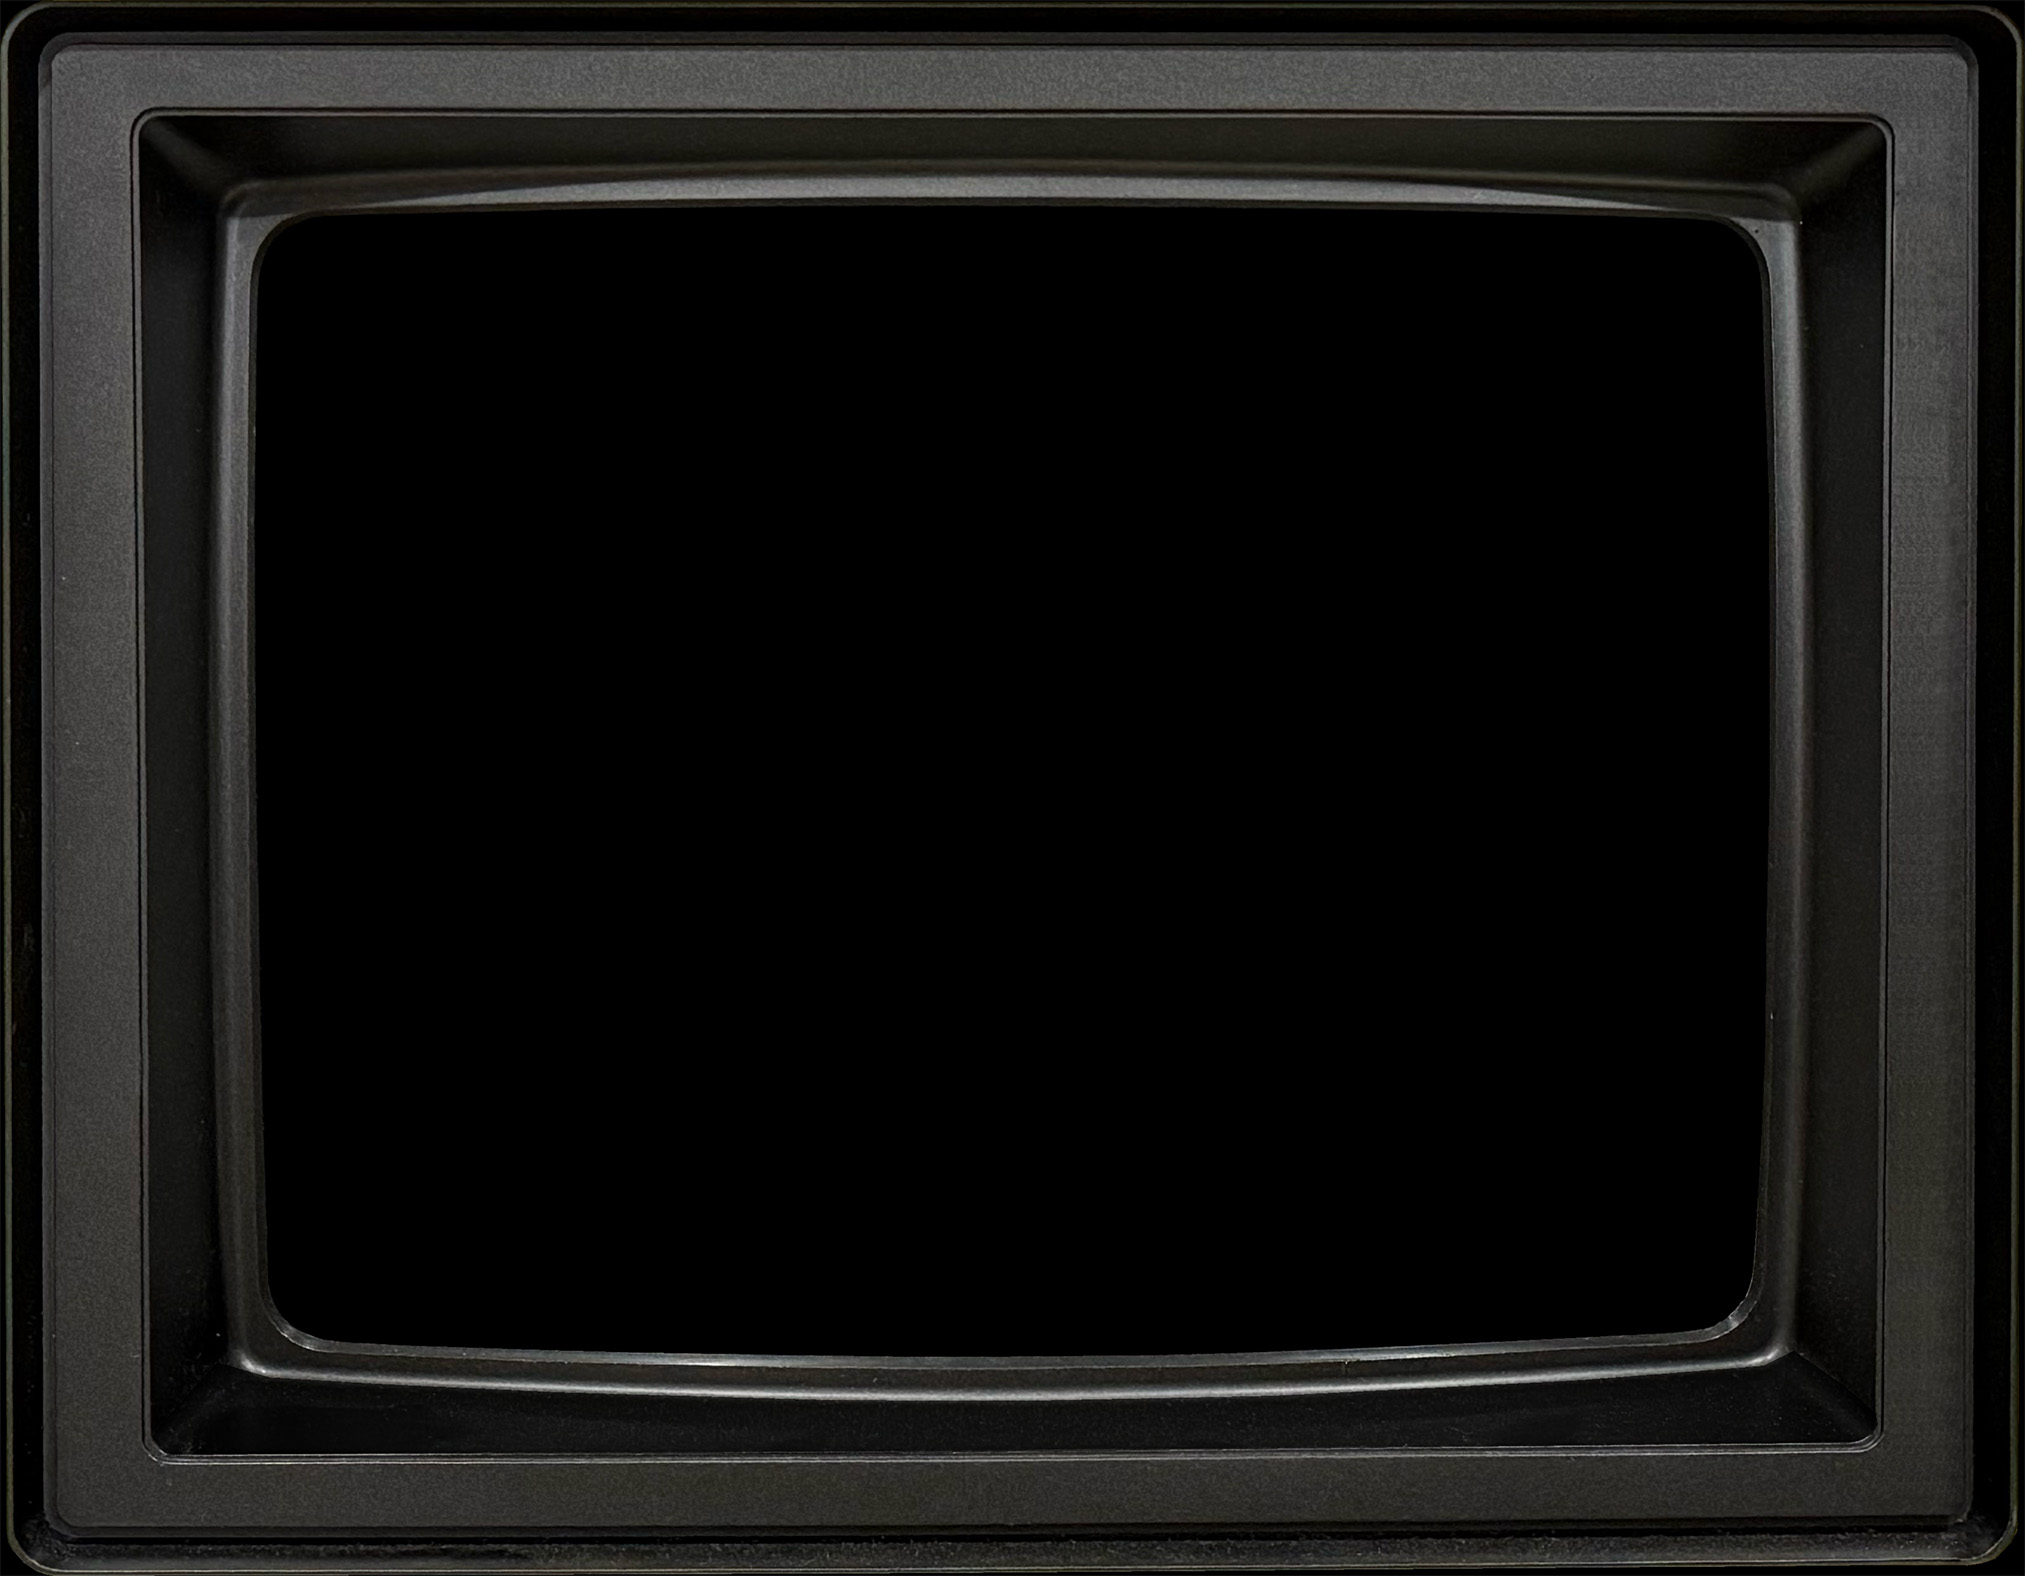
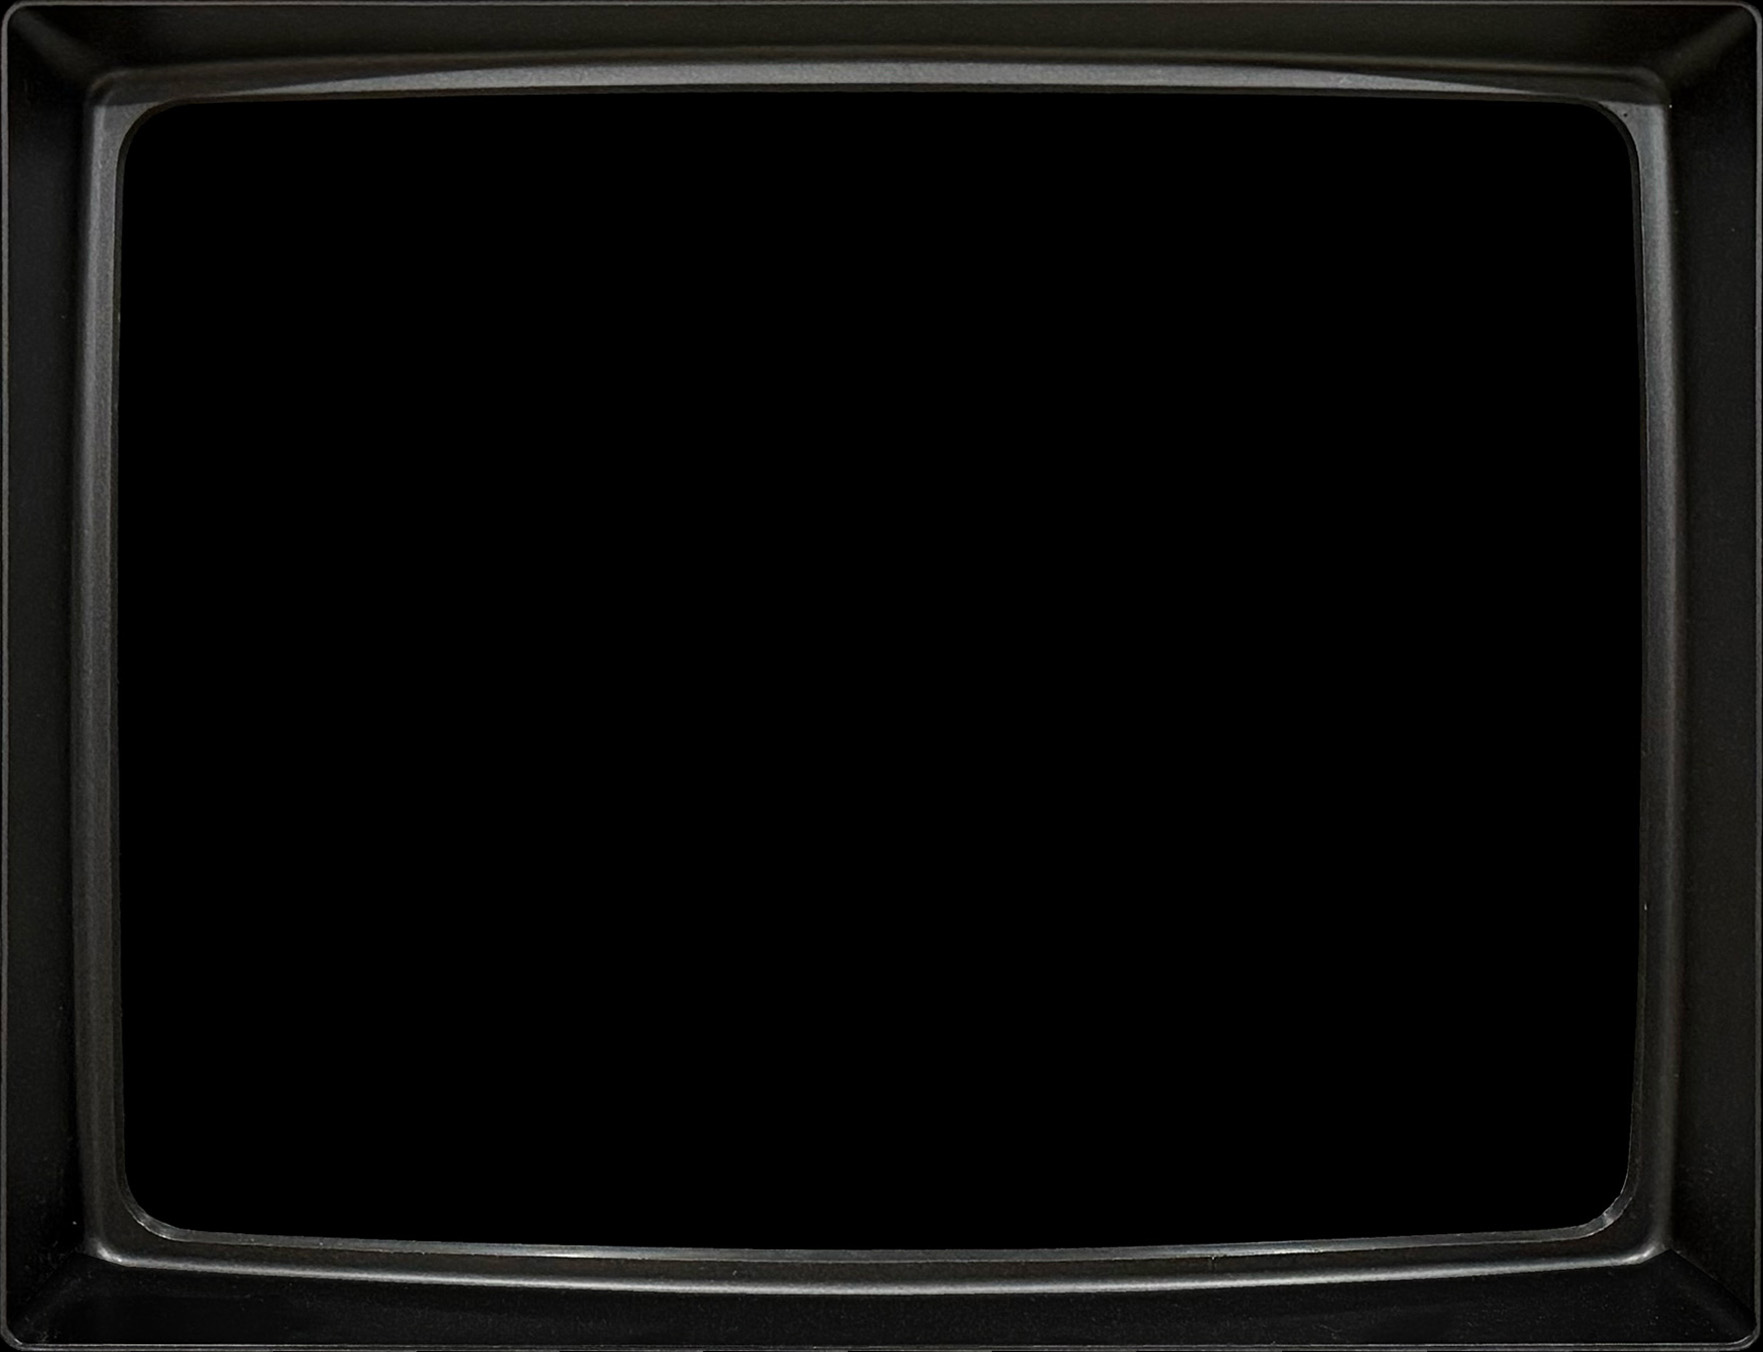
Shrink the size of the Apple II+ monitor bezel

Changed region(s): [[0.0, 0.0, 1.0, 1.0]]

diff --git a/src/ui/canvas.tsx b/src/ui/canvas.tsx
@@ -658,7 +658,7 @@ const Apple2Canvas = (props: DisplayProps) => {
         style={{
           cursor: cursor,
           borderColor: (machine === "APPLE2P" || getTheme() === UI_THEME.DARK) ? "black" : "#583927",
-          borderRadius: noBackgroundImage ? "0" : "20px",
+          borderRadius: noBackgroundImage ? "0" : "18px",
           borderWidth: (noBackgroundImage || machine === "APPLE2P") ? "0" : "2px",
           backgroundImage: `${backgroundImage}`,
           marginLeft: handleCanvasResize(myCanvas.current as HTMLCanvasElement)

diff --git a/src/ui/graphics.ts b/src/ui/graphics.ts
@@ -585,7 +585,7 @@ export const getCanvasSize = () => {
   const isTouchDevice = "ontouchstart" in document.documentElement
   const isCanvasFullScreen = document.fullscreenElement !== null
   const noBackgroundImage = isTouchDevice || isCanvasFullScreen || isMinimalTheme()
-  const margin = (handleGetMachineName() === "APPLE2P" && !isCanvasFullScreen) ? 0.17 : 0.075
+  const margin = (handleGetMachineName() === "APPLE2P" && !isCanvasFullScreen) ? 0.12 : 0.075
   xmargin = (isEmbedMode() && noBackgroundImage) ? 0.0 : (isTouchDevice ? 0.01 : margin)
   ymargin = (isEmbedMode() && noBackgroundImage) ? 0.0 : (isTouchDevice ? 0.01 : margin)
   const screenRatio = 1.4583334 // 1.33  // (20 * 40) / (24 * 24)